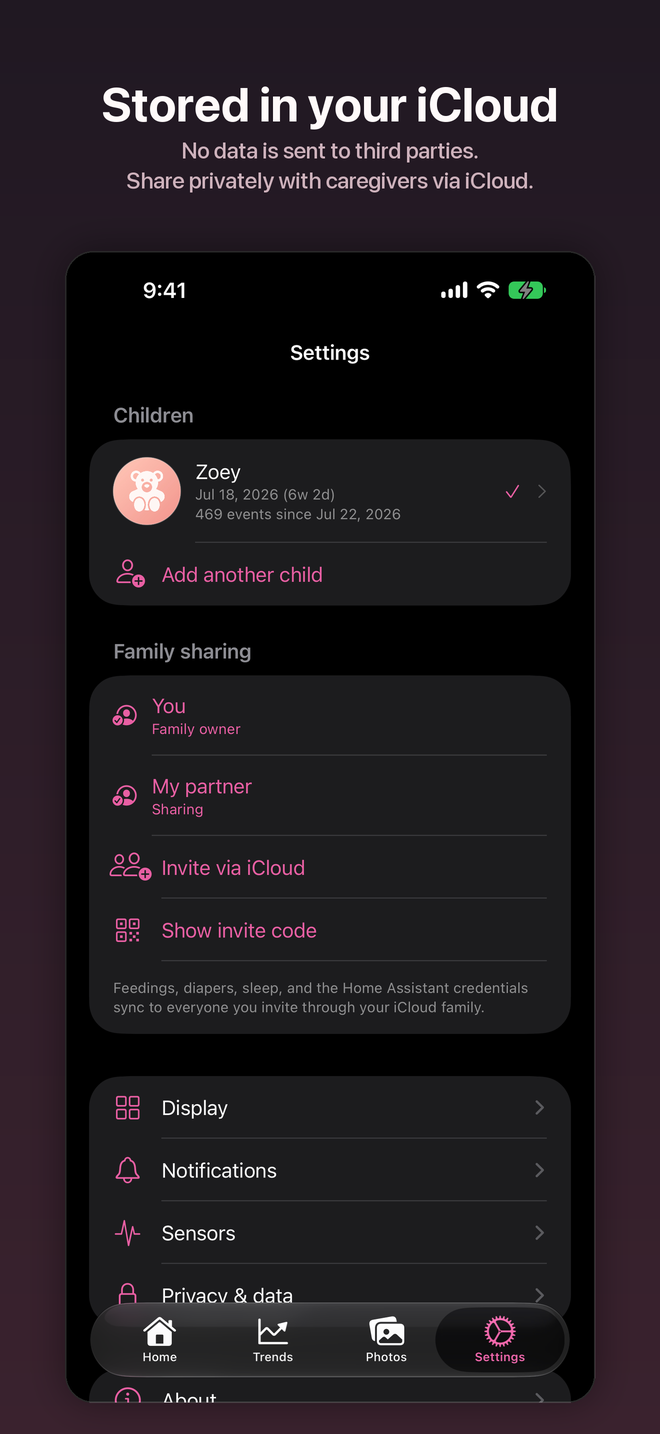
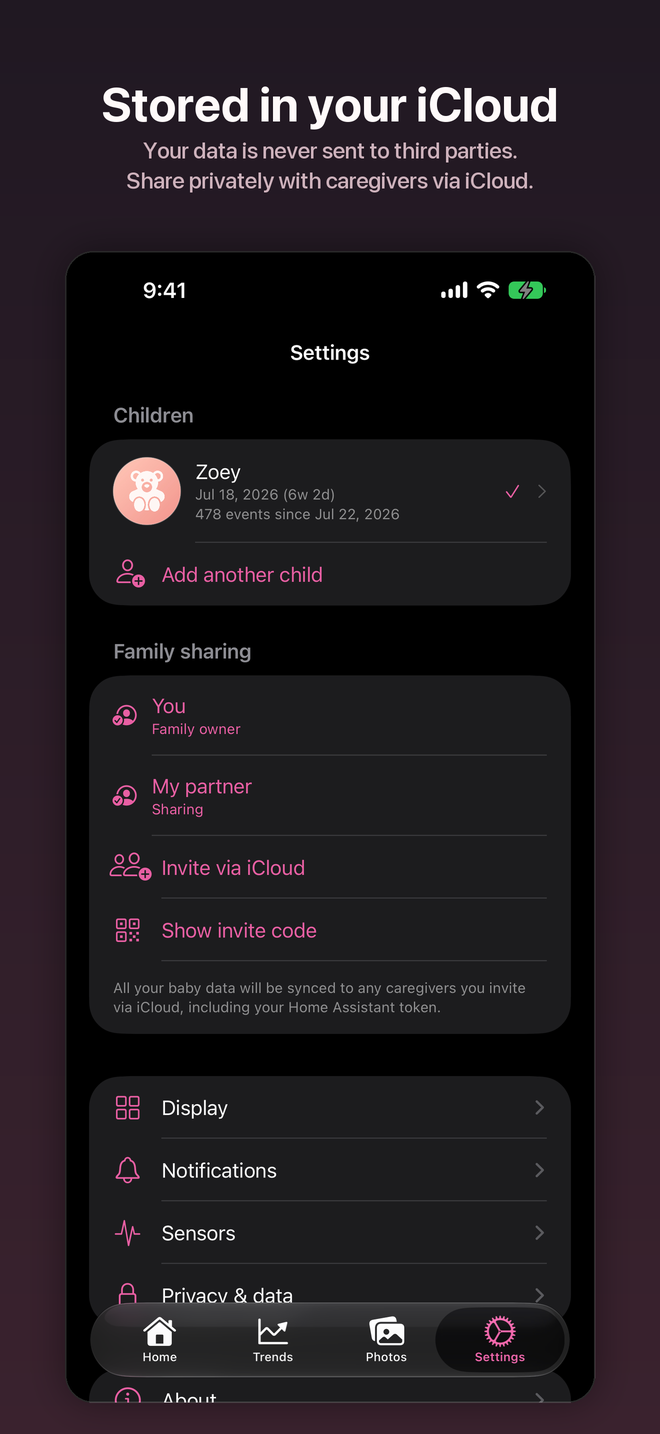
Refresh the Zoey Baby shots
The current six frames: the copy has been rewritten throughout, the
Dynamic Island now fits the one the capture drew, and the growth shot
is no longer a screen caught mid launch-animation. The vitals and
import/export frames went — vitals reused Home's capture.

Claude-Session: https://claude.ai/code/session_017LZsYcGBH5SvL1e8WYjUfu

diff --git a/zoey-baby/index.md b/zoey-baby/index.md
@@ -51,27 +51,17 @@ title: "Zoey Baby"
     </div>
     <div class="col mb-4">
         <figure class="shot mb-0">
-            <img src="/zoey-baby/screenshots/04-vitals.png" loading="lazy" alt="Live heart rate, oxygen and sleep state from Home Assistant">
+            <img src="/zoey-baby/screenshots/04-trends.png" loading="lazy" alt="Today's totals compared against the last week">
         </figure>
     </div>
     <div class="col mb-4">
         <figure class="shot mb-0">
-            <img src="/zoey-baby/screenshots/05-trends.png" loading="lazy" alt="Today's totals compared against the last week">
+            <img src="/zoey-baby/screenshots/05-growth.png" loading="lazy" alt="Weight, height and head circumference on WHO percentile curves">
         </figure>
     </div>
     <div class="col mb-4">
         <figure class="shot mb-0">
-            <img src="/zoey-baby/screenshots/06-growth.png" loading="lazy" alt="Weight, height and head circumference on WHO percentile curves">
-        </figure>
-    </div>
-    <div class="col mb-4">
-        <figure class="shot mb-0">
-            <img src="/zoey-baby/screenshots/07-data.png" loading="lazy" alt="Import and export the whole history as a ZIP">
-        </figure>
-    </div>
-    <div class="col mb-4">
-        <figure class="shot mb-0">
-            <img src="/zoey-baby/screenshots/08-privacy.png" loading="lazy" alt="Photo privacy settings, blurring photos away from home">
+            <img src="/zoey-baby/screenshots/06-privacy.png" loading="lazy" alt="Photo privacy settings, blurring photos away from home">
         </figure>
     </div>
 </div>
